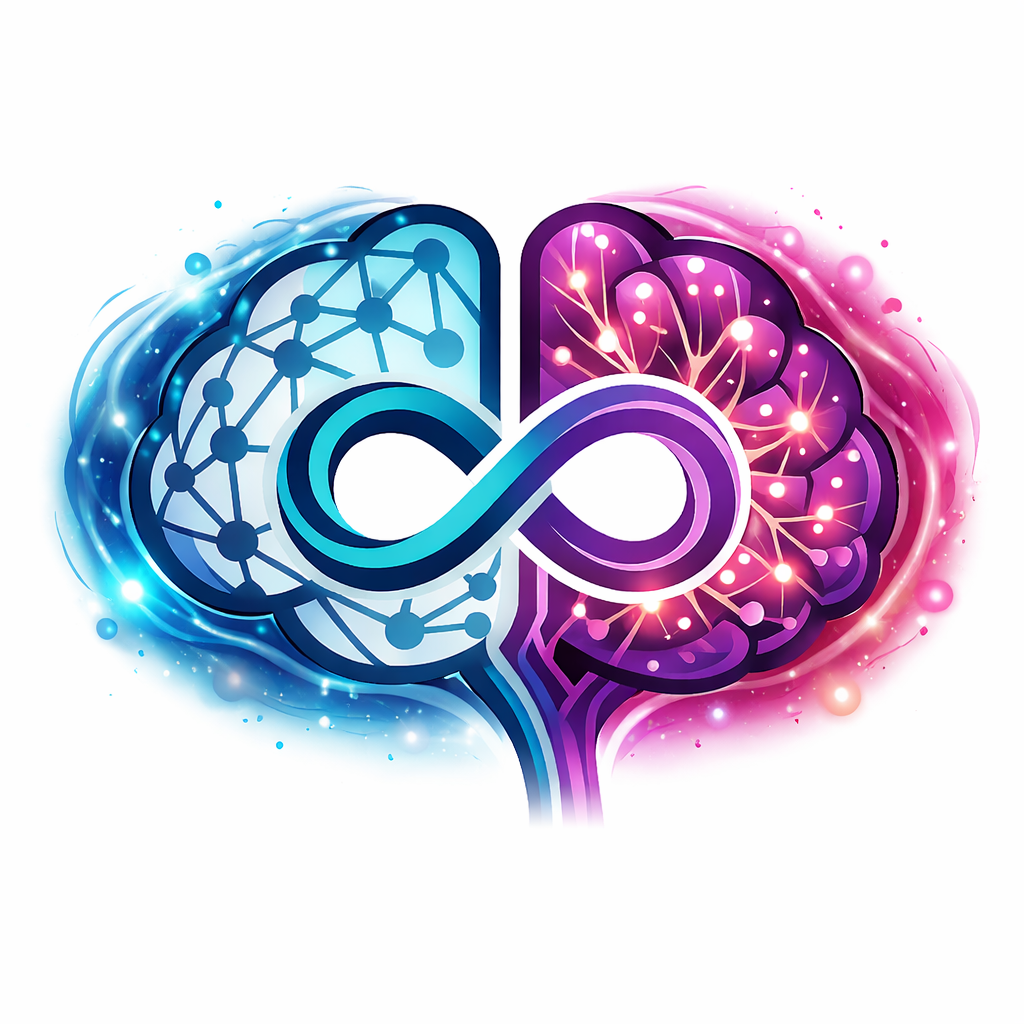
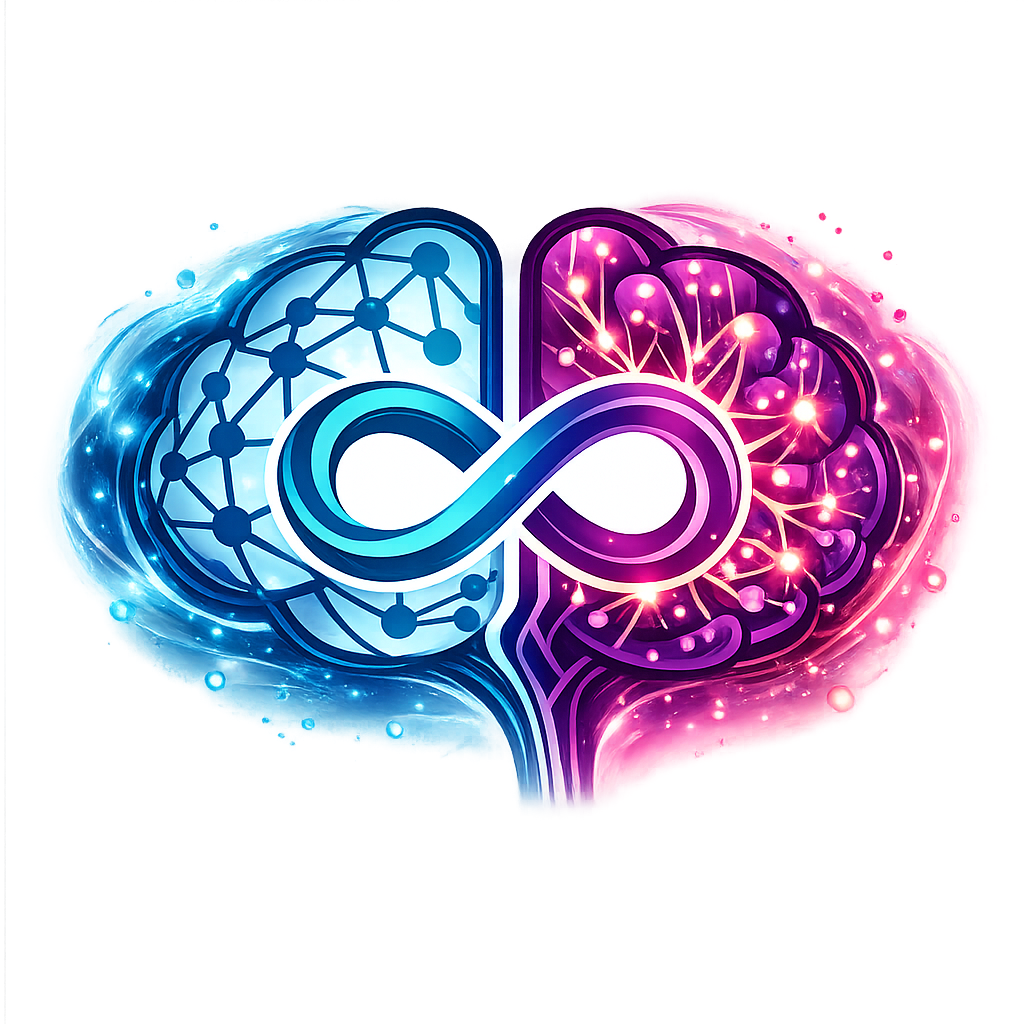
Enhance Quarto book configuration and styling
- Updated `_quarto.yml` to include a new SCSS theme and custom highlight style.
- Added preconnect links for Google Fonts in the HTML header.
- Changed code block example in `common.qmd` from Python to Bash for clarity.
- Introduced new `neuro.scss` file for custom styling with a neural palette.
- Updated cover image to reflect new design.

diff --git a/neuro.scss b/neuro.scss
@@ -1,0 +1,182 @@
+/*-- scss:defaults --*/
+
+// Neural palette
+$cortex:        #0a0e1a;   // body background
+$cortex-deep:   #060912;   // sidebar / deepest surface
+$cortex-panel:  #0d1626;   // code-block panel
+$axon:          #d4d9e0;   // body text
+$signal:        #00d9ff;   // primary / links — action-potential cyan
+$synapse:       #ff4dd2;   // hover / accents — magenta
+$dendrite:      #c084fc;   // secondary headings — violet
+$myelin:        #ffffff;   // emphasis
+$gridline:      #1f2937;   // borders
+
+// Bootstrap overrides
+$body-bg:                 $cortex;
+$body-color:              $axon;
+$link-color:              $signal;
+$link-hover-color:        $synapse;
+$primary:                 $signal;
+$border-color:            $gridline;
+
+$headings-color:          $myelin;
+$headings-font-weight:    600;
+
+$font-family-sans-serif:  "Space Grotesk", -apple-system, BlinkMacSystemFont, "Segoe UI", sans-serif;
+$font-family-monospace:   "JetBrains Mono", Menlo, Consolas, monospace;
+
+$code-color:              $signal;
+$code-bg:                 rgba($signal, 0.08);
+
+// Code-block syntax highlighting (Quarto reads these)
+$code-block-bg:           $cortex-panel;
+
+/*-- scss:rules --*/
+
+// Subtle cortical-field background — two diffuse glows
+body {
+  background-image:
+    radial-gradient(circle at 18% 12%, rgba($signal, 0.07), transparent 42%),
+    radial-gradient(circle at 82% 84%, rgba($synapse, 0.05), transparent 42%);
+  background-attachment: fixed;
+}
+
+// Headings: H1 with a signal-trace underline, H2 cyan, H3 violet
+h1, h2, h3 {
+  letter-spacing: -0.02em;
+}
+
+h1 {
+  border-bottom: 1px solid rgba($signal, 0.28);
+  padding-bottom: 0.4em;
+}
+
+h2 { color: $signal; }
+h3 { color: $dendrite; }
+
+// Links — no underline; subtle glow on hover
+a {
+  text-decoration: none;
+  border-bottom: none;
+  transition: text-shadow 0.15s ease, color 0.15s ease;
+}
+
+a:hover {
+  text-decoration: none;
+  text-shadow: 0 0 8px rgba($signal, 0.5);
+}
+
+// Sidebar — console feel
+.sidebar {
+  background-color: $cortex-deep;
+  border-right: 1px solid rgba($signal, 0.15);
+}
+
+// Sidebar book title
+.sidebar-title,
+.sidebar .sidebar-title,
+.sidebar-title a {
+  font-family: $font-family-sans-serif;
+  font-weight: 600;
+  font-size: 1.4rem;
+  letter-spacing: -0.01em;
+  line-height: 1.25;
+  color: $myelin !important;
+  text-transform: none;
+  padding-bottom: 0;
+  border-bottom: none;
+  margin-bottom: 0.75rem;
+  display: block;
+}
+
+.sidebar-title a:hover {
+  color: $signal !important;
+  text-shadow: 0 0 8px rgba($signal, 0.5);
+}
+
+// Hide default separator(s) under the sidebar title
+.sidebar hr,
+.sidebar .sidebar-title + hr,
+.sidebar-navigation > hr {
+  display: none;
+}
+
+.sidebar-item-text,
+.sidebar nav a {
+  font-family: $font-family-sans-serif;
+  font-size: 0.95rem;
+  font-weight: 500;
+  letter-spacing: 0.01em;
+}
+
+.sidebar nav a.active,
+.sidebar-item .active {
+  color: $signal !important;
+  background: linear-gradient(90deg, rgba($signal, 0.12), transparent);
+  border-left: 2px solid $signal;
+  padding-left: calc(1rem - 2px);
+}
+
+// Cover logo glow — looks like an evoked response
+.sidebar-logo img,
+.quarto-title-block .sidebar-logo img,
+.sidebar .sidebar-logo img {
+  filter: drop-shadow(0 0 14px rgba($signal, 0.35));
+}
+
+// Inline + block code — terminal panel
+code {
+  padding: 0.1em 0.4em;
+  border-radius: 3px;
+}
+
+pre, .sourceCode pre, div.sourceCode {
+  background: $code-block-bg !important;
+  border: 1px solid rgba($signal, 0.18);
+  border-radius: 6px;
+}
+
+// Blockquote as a signal trace
+blockquote {
+  border-left: 3px solid $signal;
+  background: rgba($signal, 0.04);
+  padding: 0.75rem 1rem;
+  font-style: normal;
+  color: $axon;
+}
+
+// Tables
+table {
+  color: $axon;
+}
+table thead {
+  border-bottom: 1px solid rgba($signal, 0.35);
+}
+table th { color: $myelin; }
+table tbody tr { border-bottom: 1px solid $gridline; }
+
+// Horizontal rules — thin neural fiber
+hr {
+  border: 0;
+  height: 1px;
+  background: linear-gradient(90deg, transparent, rgba($signal, 0.5), transparent);
+}
+
+// TOC on the right
+.sidebar.margin-sidebar a,
+nav#TOC a {
+  border-bottom: none;
+  color: $axon;
+  opacity: 0.75;
+}
+.sidebar.margin-sidebar a.active,
+nav#TOC a.active {
+  color: $signal;
+  opacity: 1;
+}
+
+// Selection: synapse magenta
+::selection {
+  background: rgba($synapse, 0.35);
+  color: $myelin;
+}
